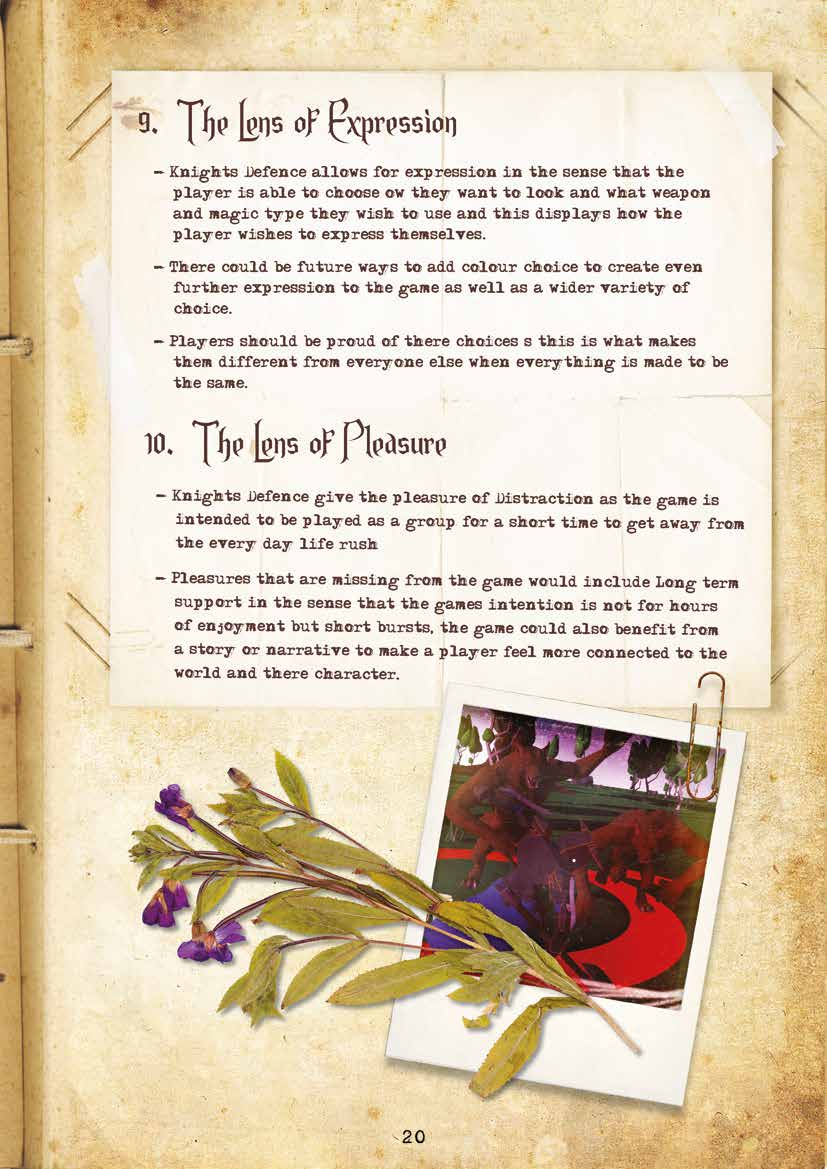
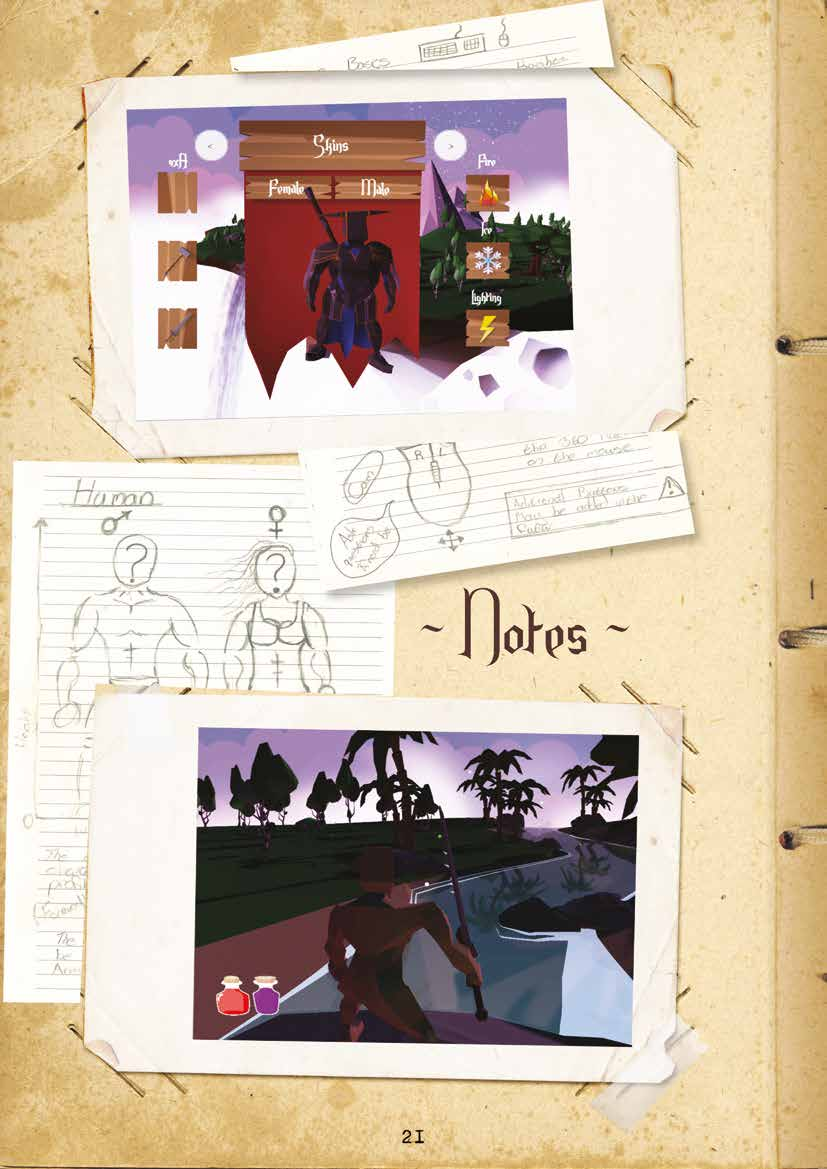
Book Update

diff --git a/styles.css b/styles.css
@@ -144,7 +144,7 @@ h2 {
 }
 
 .book {
-  width: 960px;
+  width: 828px;
   height: 540px;
   margin-top: 50px;
 }
@@ -163,15 +163,15 @@ h2 {
 }
 
 .flipbook-viewport .flipbook {
-  width: 922px;
-  height: 600px;
-  left: -461px;
-  top: -300px;
+  width: 828px;
+  height: 585px;
+  left: -414px;
+  top: -585px;
 }
 
 .flipbook-viewport .page {
-  width: 461px;
-  height: 600px;
+  width: 414px;
+  height: 585px;
   background-color: white;
   background-repeat: no-repeat;
   background-size: 100% 100%;
@@ -245,6 +245,15 @@ h2 {
   background: url(./assets/Parralax-background/lvl-11-01.png);
 }
 
+.page {
+  background-size: cover;
+  width: 414px !important;
+  height: 585px !important;
+}
+
+.flipbook{
+  width: 820px !important;
+}
 /* .part {
   position: absolute;
 

diff --git a/js/genImages.js b/js/genImages.js
@@ -7,6 +7,7 @@ function imgGen() {
   imgNums.forEach(num => {
     var element = document.createElement("div");
     element.style.background = `url(./assets/knight_Defense/kd_Doc_${num}.jpg)`;
+    element.style.backgroundSize = "cover";
     element.className = "page";
     flipbook.appendChild(element);
   });
